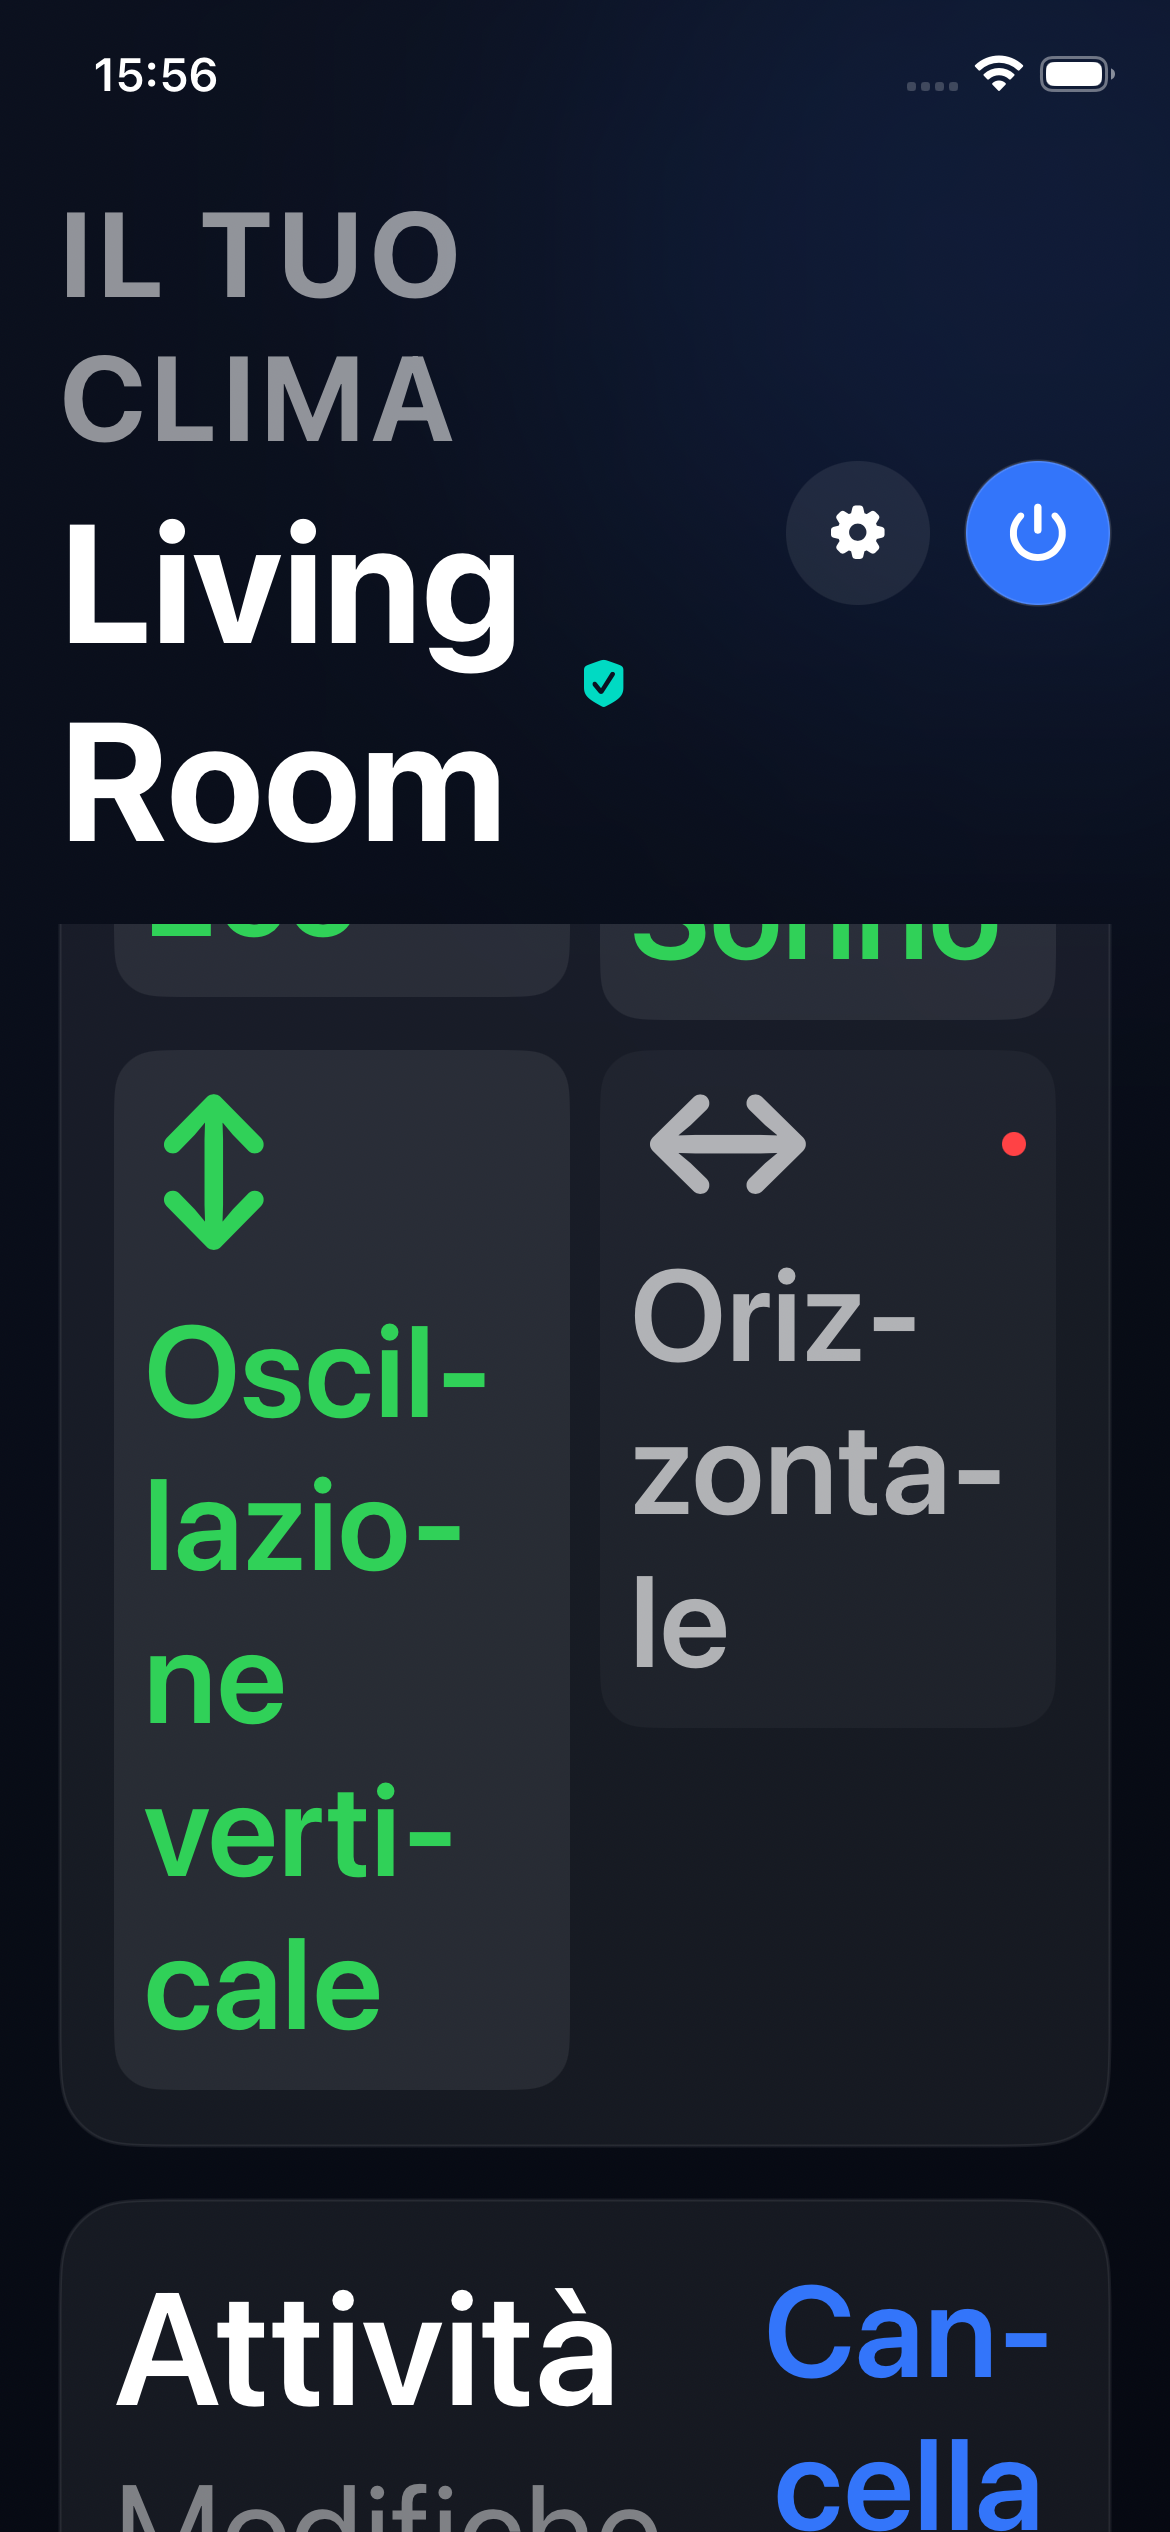
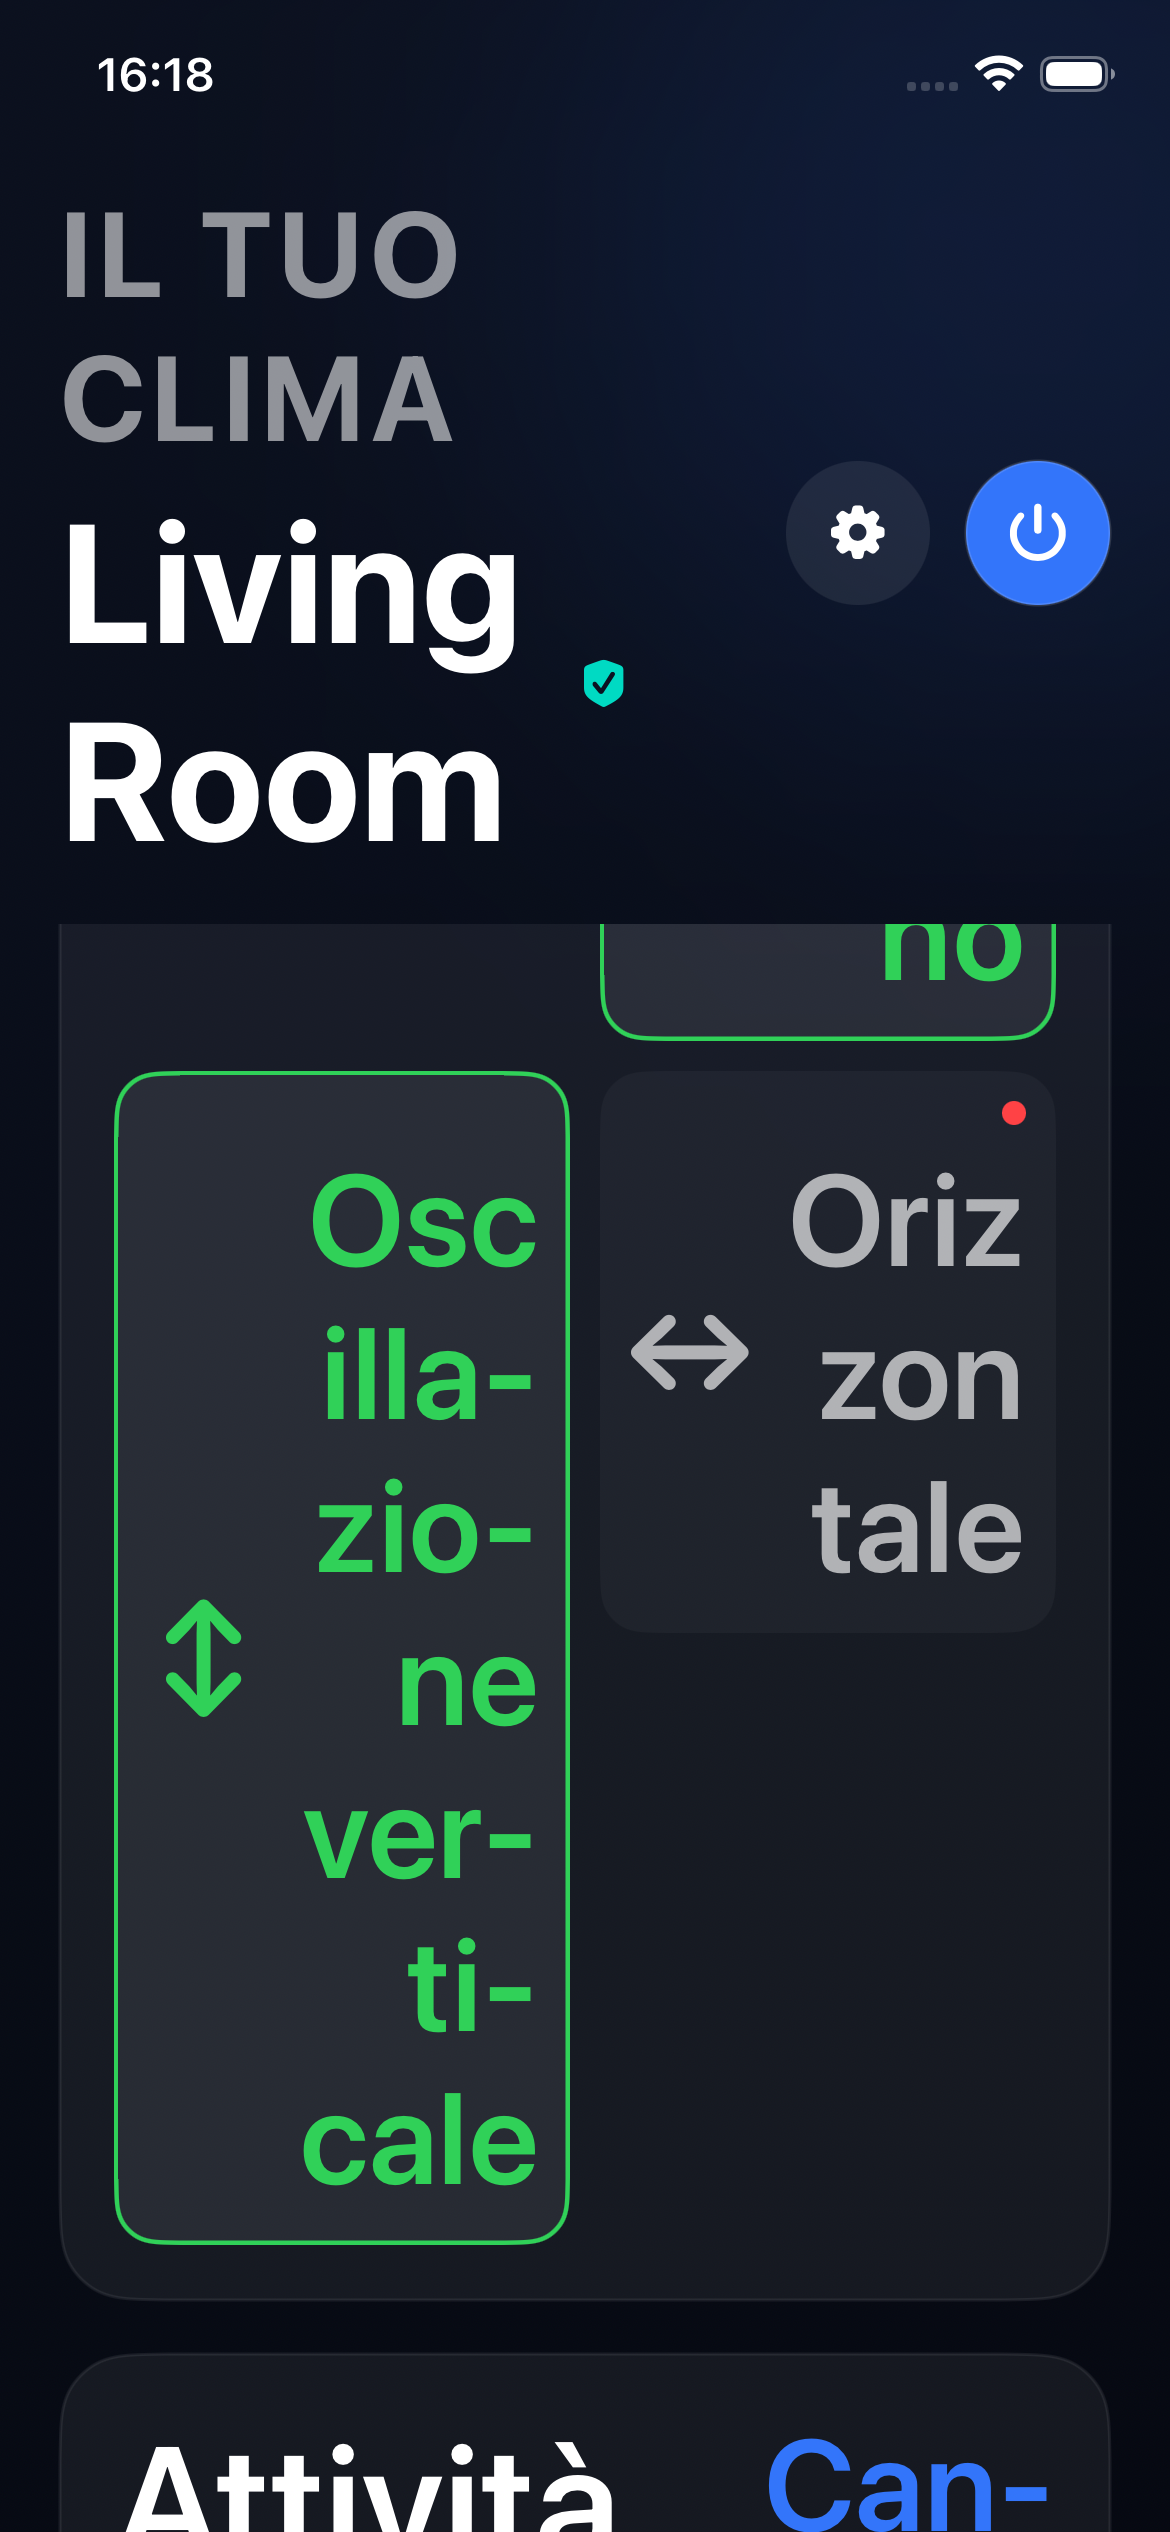
Rearrange Comfort cards and outline enabled controls

diff --git a/Sources/BetterBCoolUI/ClimateDashboard.swift b/Sources/BetterBCoolUI/ClimateDashboard.swift
@@ -875,6 +875,7 @@ private struct FeatureTile: View {
     let enabled: Bool
     var action: (() -> Void)? = nil
     @Environment(\.isEnabled) private var isAvailable
+    @ScaledMetric(relativeTo: .body) private var iconSize = 30
 
     var body: some View {
         Group {
@@ -895,24 +896,18 @@ private struct FeatureTile: View {
     private var content: some View {
         Group {
 #if os(iOS)
-            VStack(alignment: .leading, spacing: 10) {
-                HStack {
-                    Image(systemName: symbol)
-                        .font(.body.weight(.semibold))
-                        .accessibilityHidden(true)
-                    Spacer(minLength: 0)
-                    if !enabled {
-                        Circle()
-                            .fill(Color.red)
-                            .frame(width: 8, height: 8)
-                            .accessibilityHidden(true)
-                    }
-                }
+            HStack(spacing: 10) {
+                Image(systemName: symbol)
+                    .font(.system(size: min(iconSize, 40), weight: .semibold))
+                    .frame(width: min(iconSize, 40))
+                    .accessibilityHidden(true)
                 Text(title)
                     .font(.caption.weight(.semibold))
                     .lineLimit(nil)
+                    .multilineTextAlignment(.trailing)
                     .fixedSize(horizontal: false, vertical: true)
-                    .frame(maxWidth: .infinity, alignment: .leading)
+                    .frame(maxWidth: .infinity, alignment: .trailing)
+                    .padding(.top, 14)
             }
             .frame(maxWidth: .infinity, minHeight: 72, alignment: .leading)
 #else
@@ -943,6 +938,23 @@ private struct FeatureTile: View {
             .white.opacity(isAvailable && enabled ? 0.075 : 0.035),
             in: RoundedRectangle(cornerRadius: 15)
         )
+        .overlay {
+            if enabled {
+                RoundedRectangle(cornerRadius: 15)
+                    .strokeBorder(Color.green, lineWidth: 1.5)
+            }
+        }
+#if os(iOS)
+        .overlay(alignment: .topTrailing) {
+            if !enabled {
+                Circle()
+                    .fill(Color.red)
+                    .frame(width: 8, height: 8)
+                    .padding(10)
+                    .accessibilityHidden(true)
+            }
+        }
+#endif
         .opacity(isAvailable ? 1 : 0.5)
         .contentShape(RoundedRectangle(cornerRadius: 15))
     }

diff --git a/docs/testing/issue-31/README.md b/docs/testing/issue-31/README.md
@@ -2,7 +2,9 @@
 
 Issue #31 requests rectangular Comfort controls in two columns instead of a list.
 
-The dashboard now always places Eco and Sleep in the first row, then Vertical swing and Horizontal in the second row. Both columns have equal width. Each card puts its icon above its full localized label. Text has no line limit and can wrap; the cards grow vertically and align at the top of their row.
+The dashboard now always places Eco and Sleep in the first row, then Vertical swing and Horizontal in the second row. Both columns have equal width. Each card puts a larger icon on the left and its full localized label on the right, with trailing alignment. Text has no line limit and can wrap; the cards grow vertically and align at the top of their row.
+
+Off controls display a red dot in the top-right corner, with reserved space so it cannot overlap the text. On controls hide the dot and display a green outline. The screenshots below show the revised layout requested during device testing.
 
 Verified on an iPhone 17e simulator running iOS 26.5. Three UI regressions passed with no failures. The Comfort regression checks English and Italian at default and largest accessibility text sizes, exact labels, rendered-text containment, equal column widths, row alignment, separation, minimum target height, and all four toggle actions. The other regressions verify Dry-mode and powered-off availability. All 37 Swift package tests passed.
 
